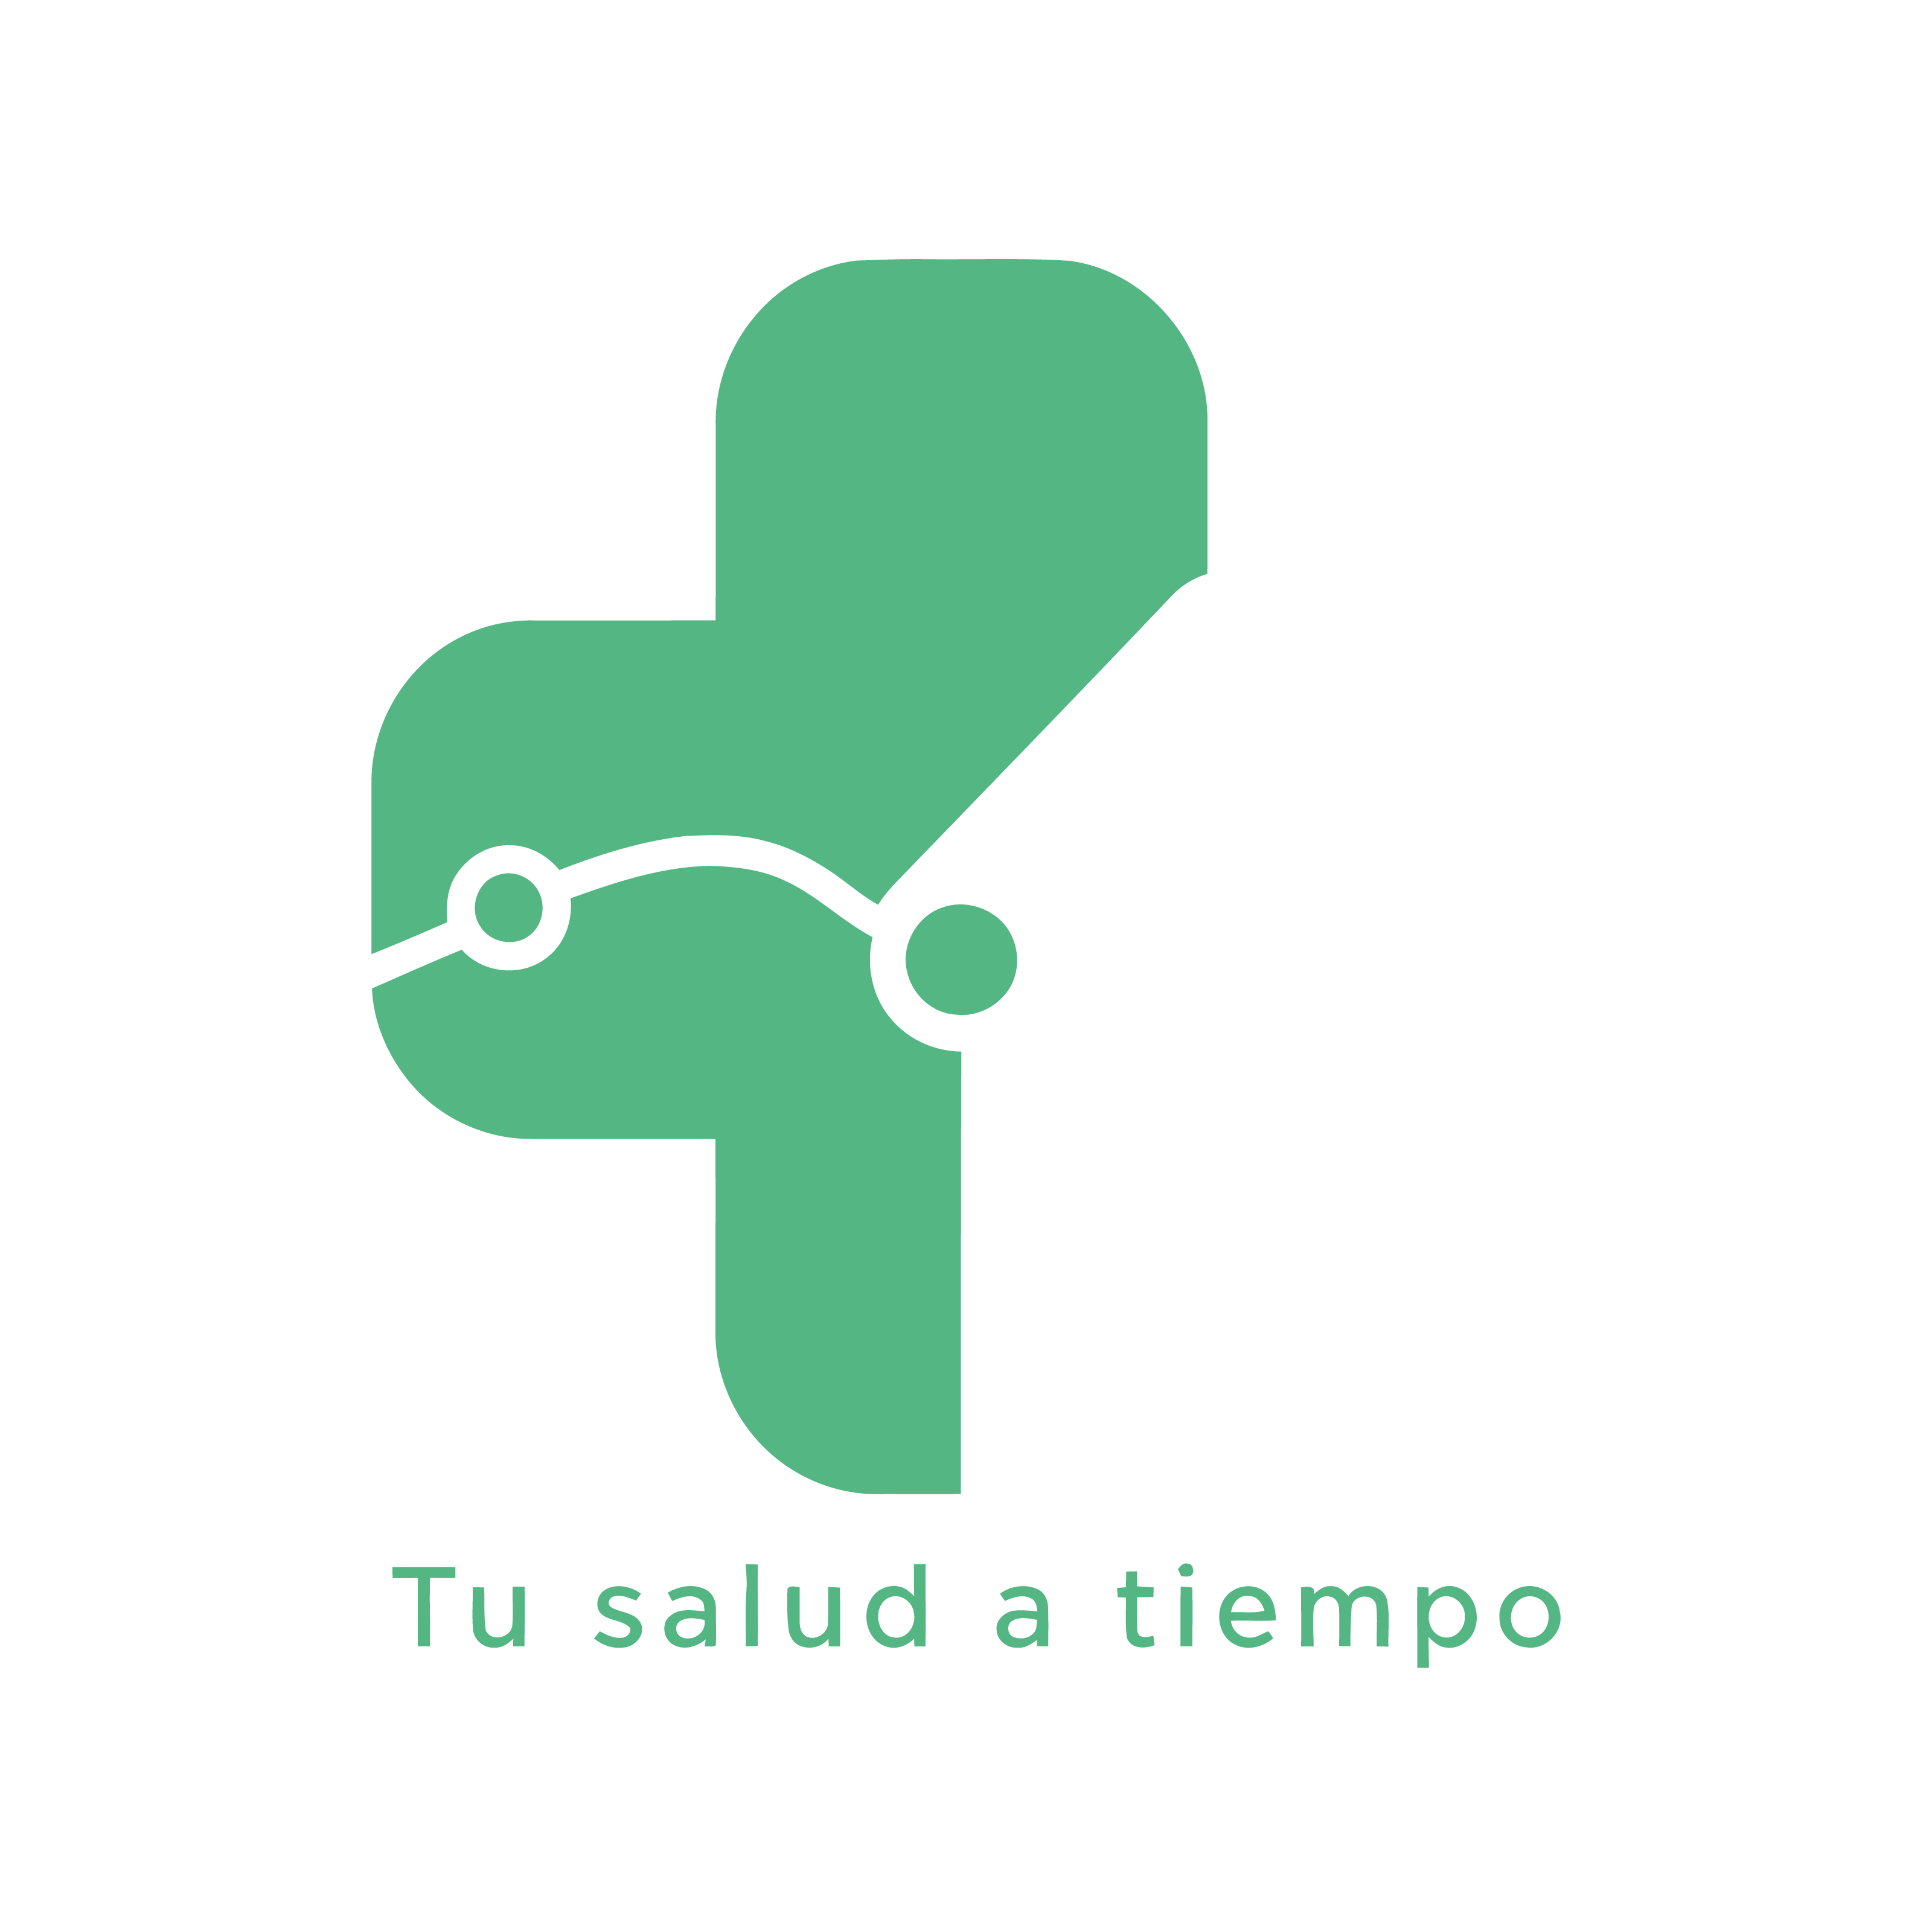
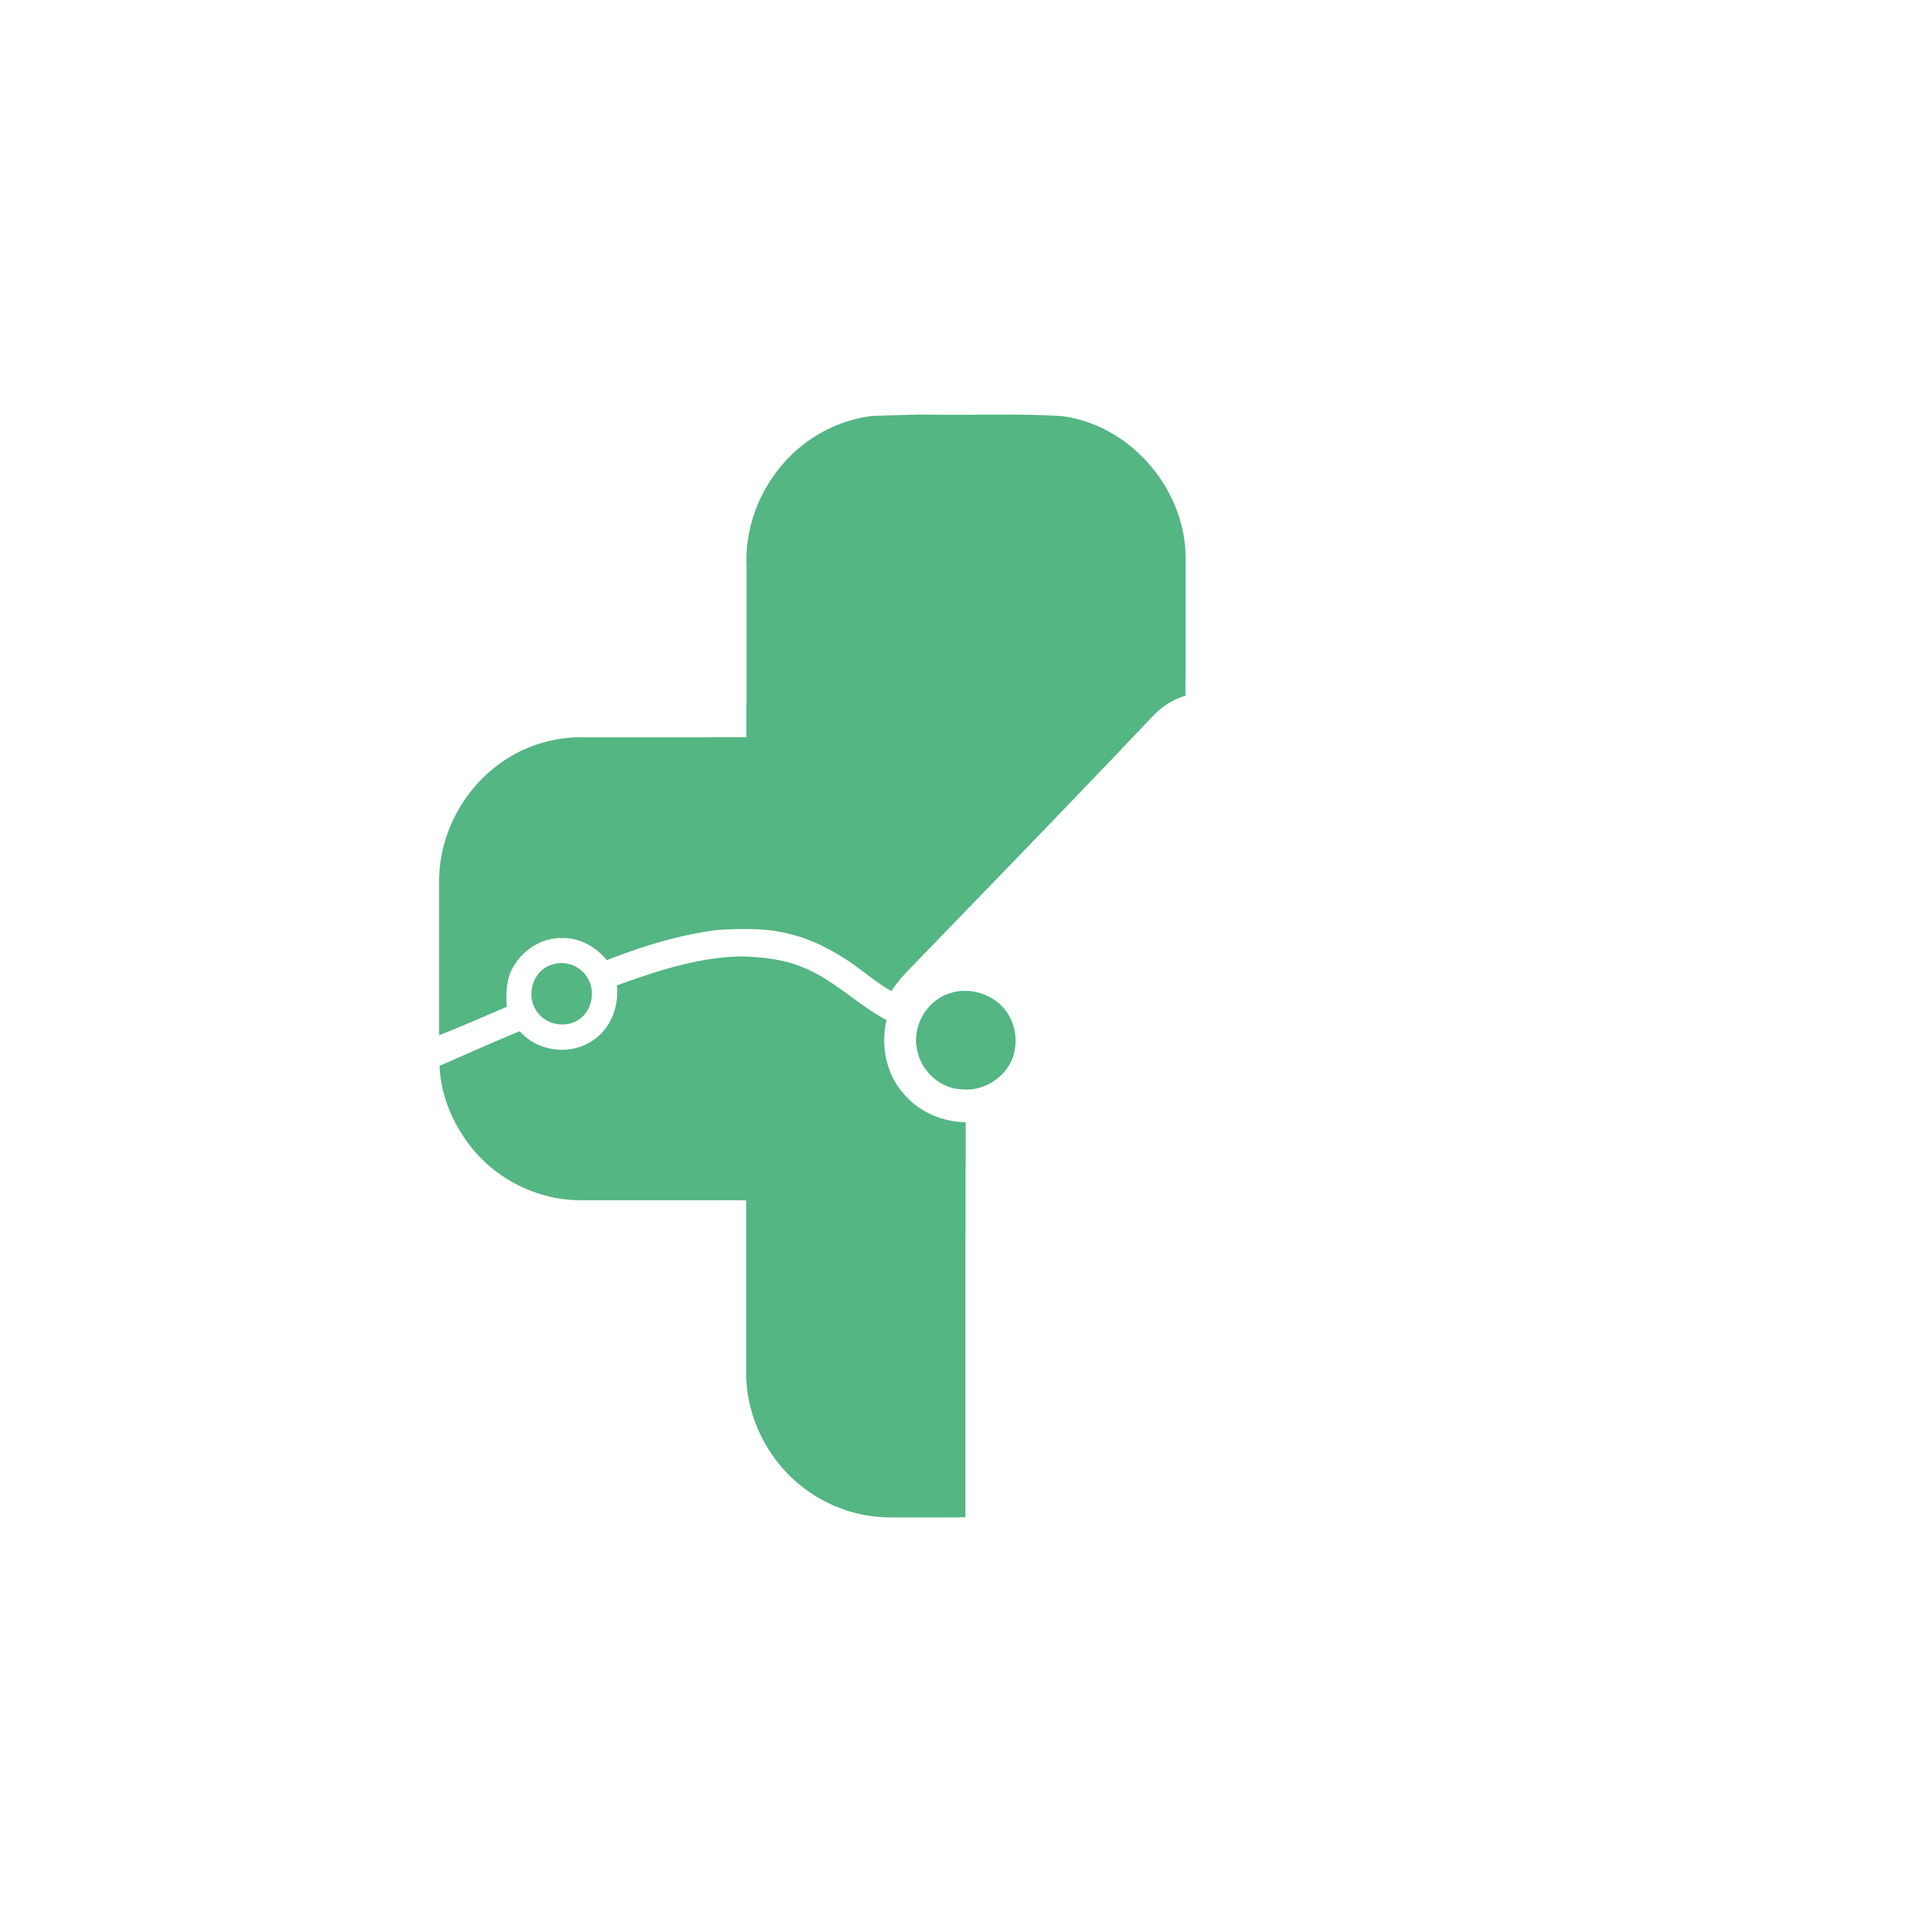
Fix auth UI themes providers and biometric session

Changed region(s): [[0.1875, 0.125, 0.625, 0.75], [0.3125, 0.75, 0.8125, 0.875], [0.1875, 0.8125, 0.2812, 0.875]]

diff --git a/App.tsx b/App.tsx
@@ -908,6 +908,7 @@ export default function App() {
   const [storedAuthUser, setStoredAuthUser] = useState<AuthUser | null>(null);
   const [biometricAvailable, setBiometricAvailable] = useState(false);
   const [biometricChecking, setBiometricChecking] = useState(false);
+  const [authBusy, setAuthBusy] = useState(false);
   const [authMode, setAuthMode] = useState<AuthMode>("login");
   const [authMethod, setAuthMethod] = useState<AuthMethod>("email");
   const [authName, setAuthName] = useState("");
@@ -1548,19 +1549,47 @@ export default function App() {
   }
 
   function firebaseErrorMessage(error: unknown) {
-    const message = error instanceof Error ? error.message : "";
-    if (message.includes("auth/invalid-credential") || message.includes("auth/wrong-password")) {
-      return "Los datos de inicio de sesión no coinciden.";
+    const firebaseError = error as { code?: string; message?: string };
+    const code = firebaseError?.code ?? "";
+    const message = firebaseError?.message ?? "";
+
+    if (
+      code.includes("auth/invalid-credential") ||
+      code.includes("auth/wrong-password") ||
+      code.includes("auth/user-not-found") ||
+      message.includes("INVALID_LOGIN_CREDENTIALS")
+    ) {
+      return "Correo o contraseña incorrectos.";
     }
-    if (message.includes("auth/email-already-in-use")) {
-      return "Ese correo ya tiene una cuenta.";
+
+    if (code.includes("auth/invalid-email")) {
+      return "El correo no tiene un formato válido.";
     }
-    if (message.includes("auth/weak-password")) {
-      return "Usa una contraseña de al menos 6 caracteres.";
+
+    if (code.includes("auth/email-already-in-use")) {
+      return "Ese correo ya tiene una cuenta. Intenta iniciar sesión.";
     }
-    if (message.includes("auth/popup")) {
-      return "No se pudo abrir la ventana de inicio de sesión.";
+
+    if (code.includes("auth/weak-password")) {
+      return "La contraseña debe tener al menos 6 caracteres.";
     }
+
+    if (code.includes("auth/too-many-requests")) {
+      return "Hubo demasiados intentos. Espera un momento y vuelve a probar.";
+    }
+
+    if (code.includes("auth/account-exists-with-different-credential")) {
+      return "Ese correo ya existe con otro método. Entra con tu correo y contraseña, luego conecta Google o Facebook desde Cuenta.";
+    }
+
+    if (code.includes("auth/credential-already-in-use")) {
+      return "Ese método ya está conectado a otra cuenta.";
+    }
+
+    if (message) {
+      return message;
+    }
+
     return "Firebase no pudo completar la operación. Revisa la configuración del proyecto.";
   }
 
@@ -1638,6 +1667,19 @@ export default function App() {
   }
 
   async function loginSavedAccountWithPassword() {
+    if (authBusy) {
+      return;
+    }
+
+    setAuthBusy(true);
+    try {
+      await loginSavedAccountWithPasswordCore();
+    } finally {
+      setAuthBusy(false);
+    }
+  }
+
+  async function loginSavedAccountWithPasswordCore() {
     const account = selectedDeviceAccount;
     const secret = authSecret.trim();
 
@@ -1679,6 +1721,19 @@ export default function App() {
   }
 
   async function handleAuthSubmit() {
+    if (authBusy) {
+      return;
+    }
+
+    setAuthBusy(true);
+    try {
+      await handleAuthSubmitCore();
+    } finally {
+      setAuthBusy(false);
+    }
+  }
+
+  async function handleAuthSubmitCore() {
     const identifier = authIdentifier.trim();
     const secret = authSecret.trim();
 
@@ -2800,7 +2855,8 @@ function buildContactText() {
                 {selectedDeviceAccount.provider === "email" ? (
                   <>
                     <FloatingInput label="Contraseña" value={authSecret} onChangeText={setAuthSecret} secureTextEntry />
-                    <Pressable style={styles.secondaryButton} onPress={() => void loginSavedAccountWithPassword()}>
+                    <Pressable style={styles.secondaryButton} disabled={authBusy}
+                onPress={() => void loginSavedAccountWithPassword()}>
                       <Text style={styles.secondaryButtonText}>Entrar con contraseña</Text>
                     </Pressable>
                   </>
@@ -3457,7 +3513,7 @@ function buildContactText() {
             </View>
           </View>
           <Pressable style={styles.secondaryButton} onPress={() => void signOut()}>
-            <Text style={styles.secondaryButtonText}>Cerrar sesión</Text>
+            <Text style={styles.secondaryButtonText}>Bloquear sesión</Text>
           </Pressable>
         </View>
       </View>
@@ -5926,6 +5982,47 @@ function createStyles(theme: KuraTheme) {
   profileActions: {
     gap: 8
   },
+  accountAccessPanel: {
+    gap: 8,
+    padding: 12,
+    borderRadius: theme.radius.md,
+    backgroundColor: theme.colors.surfaceAlt,
+    borderWidth: 1,
+    borderColor: theme.colors.line
+  },
+  accountAccessTitle: {
+    color: theme.colors.ink,
+    fontSize: 15,
+    fontWeight: "900"
+  },
+  accountAccessText: {
+    color: theme.colors.muted,
+    fontSize: 12,
+    lineHeight: 16,
+    fontWeight: "700"
+  },
+  accountAccessButtons: {
+    flexDirection: "row",
+    flexWrap: "wrap",
+    gap: 8
+  },
+  accountAccessButton: {
+    flexGrow: 1,
+    minHeight: 42,
+    alignItems: "center",
+    justifyContent: "center",
+    paddingHorizontal: 12,
+    borderRadius: theme.radius.pill,
+    backgroundColor: theme.colors.mint,
+    borderWidth: 1,
+    borderColor: theme.colors.line
+  },
+  accountAccessButtonText: {
+    color: theme.colors.primaryDark,
+    fontSize: 12,
+    fontWeight: "900",
+    textAlign: "center"
+  },
   accountPanel: {
     gap: 12,
     padding: 14,
@@ -6569,6 +6666,9 @@ function createStyles(theme: KuraTheme) {
     height: 180,
     borderRadius: theme.radius.sm,
     backgroundColor: theme.colors.backgroundSoft
+  },
+  disabledButton: {
+    opacity: 0.68
   },
   primaryButton: {
     minHeight: 50,

diff --git a/src/nativeSocialAuth.ts b/src/nativeSocialAuth.ts
@@ -16,7 +16,36 @@ const facebookNativeRedirectUri = AuthSession.makeRedirectUri({
 });
 
 export async function requestGoogleIdToken() {
-  const clientId = Platform.OS === "web" ? googleOAuthConfig.webClientId : googleOAuthConfig.androidClientId;
+  if (Platform.OS !== "web") {
+    if (!googleOAuthConfig.webClientId) {
+      throw new Error(missingGoogleOAuthMessage());
+    }
+
+    const { GoogleSignin } = await import("@react-native-google-signin/google-signin");
+
+    GoogleSignin.configure({
+      webClientId: googleOAuthConfig.webClientId,
+      offlineAccess: false
+    });
+
+    await GoogleSignin.hasPlayServices({ showPlayServicesUpdateDialog: true });
+
+    const result = await GoogleSignin.signIn();
+    const rawResult = result as unknown as {
+      idToken?: string | null;
+      data?: { idToken?: string | null } | null;
+    };
+
+    const idToken = rawResult.data?.idToken ?? rawResult.idToken;
+
+    if (!idToken) {
+      throw new Error("Google no devolvió un ID token.");
+    }
+
+    return idToken;
+  }
+
+  const clientId = googleOAuthConfig.webClientId;
   if (!clientId) {
     throw new Error(missingGoogleOAuthMessage());
   }
@@ -33,6 +62,7 @@ export async function requestGoogleIdToken() {
   });
 
   const result = await request.promptAsync(googleDiscovery);
+
   if (result.type !== "success" || !result.params.code) {
     throw new Error("Inicio con Google cancelado.");
   }
@@ -58,6 +88,7 @@ export async function requestGoogleIdToken() {
 
 export async function requestFacebookAccessToken() {
   const clientId = facebookOAuthConfig.appId;
+
   if (!clientId) {
     throw new Error(missingFacebookOAuthMessage());
   }
@@ -70,6 +101,7 @@ export async function requestFacebookAccessToken() {
   });
 
   const result = await request.promptAsync(facebookDiscovery);
+
   if (result.type !== "success" || !result.params.access_token) {
     throw new Error("Inicio con Facebook cancelado.");
   }